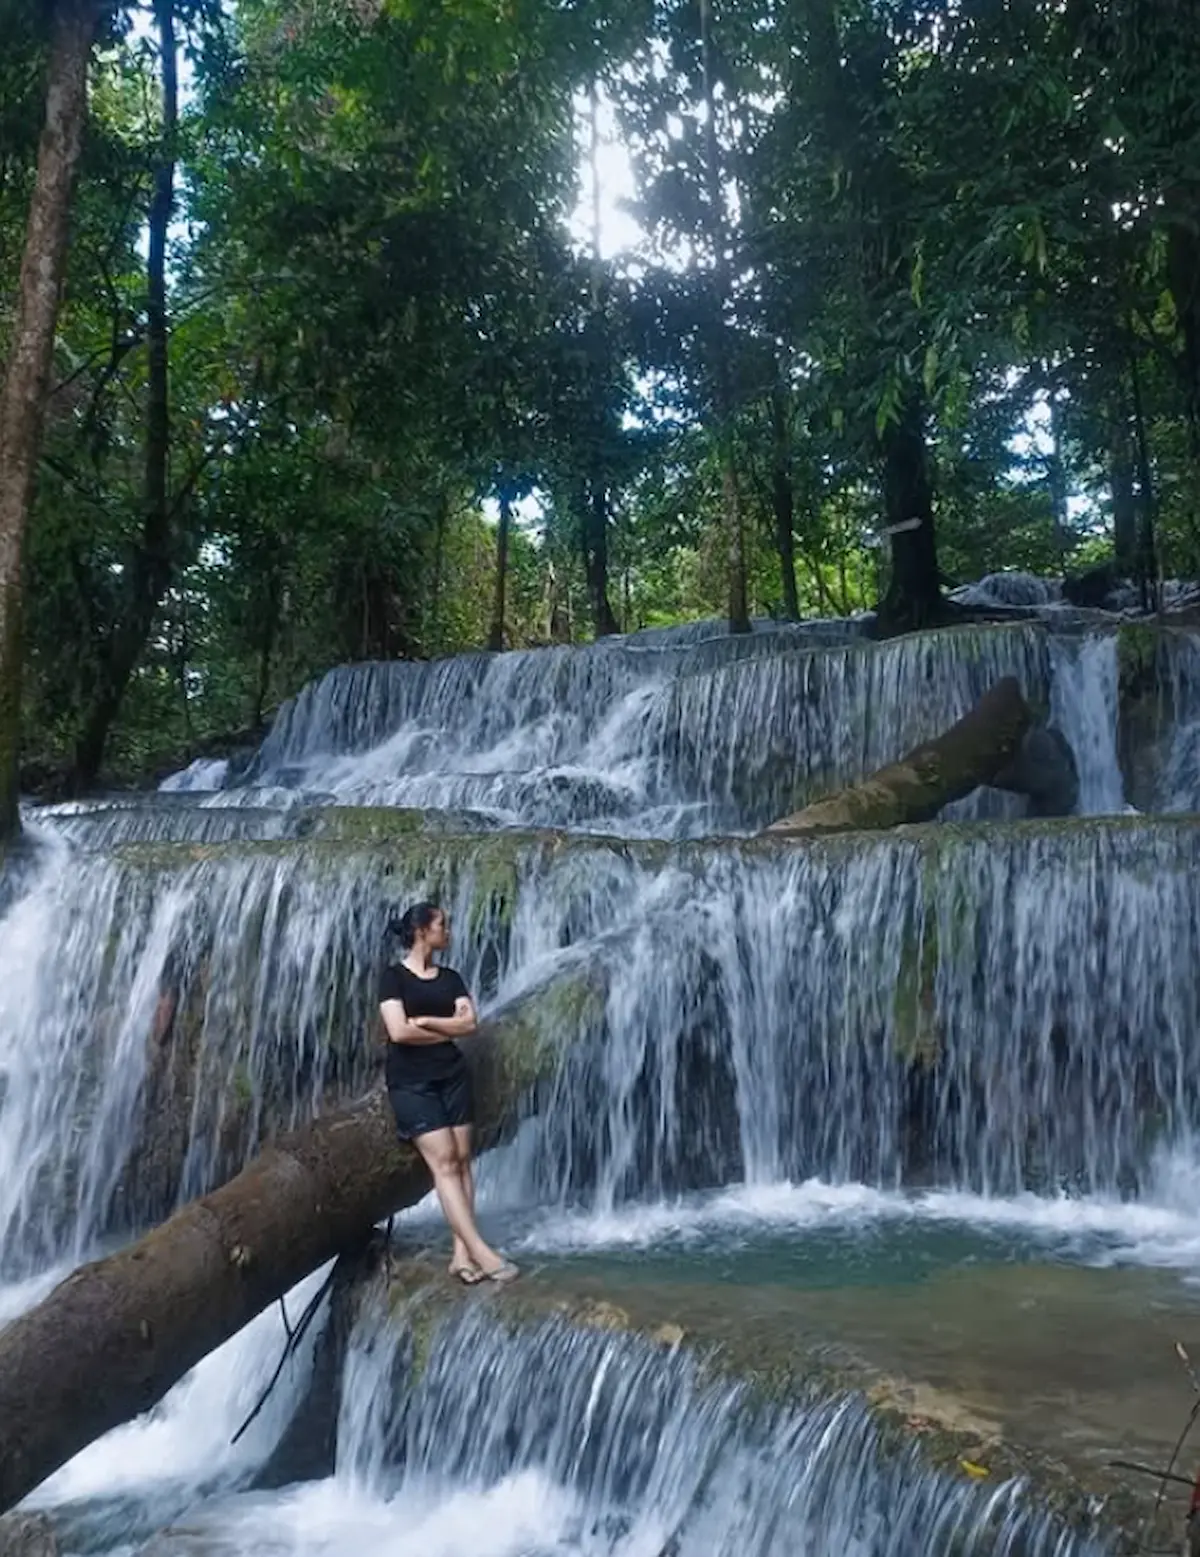
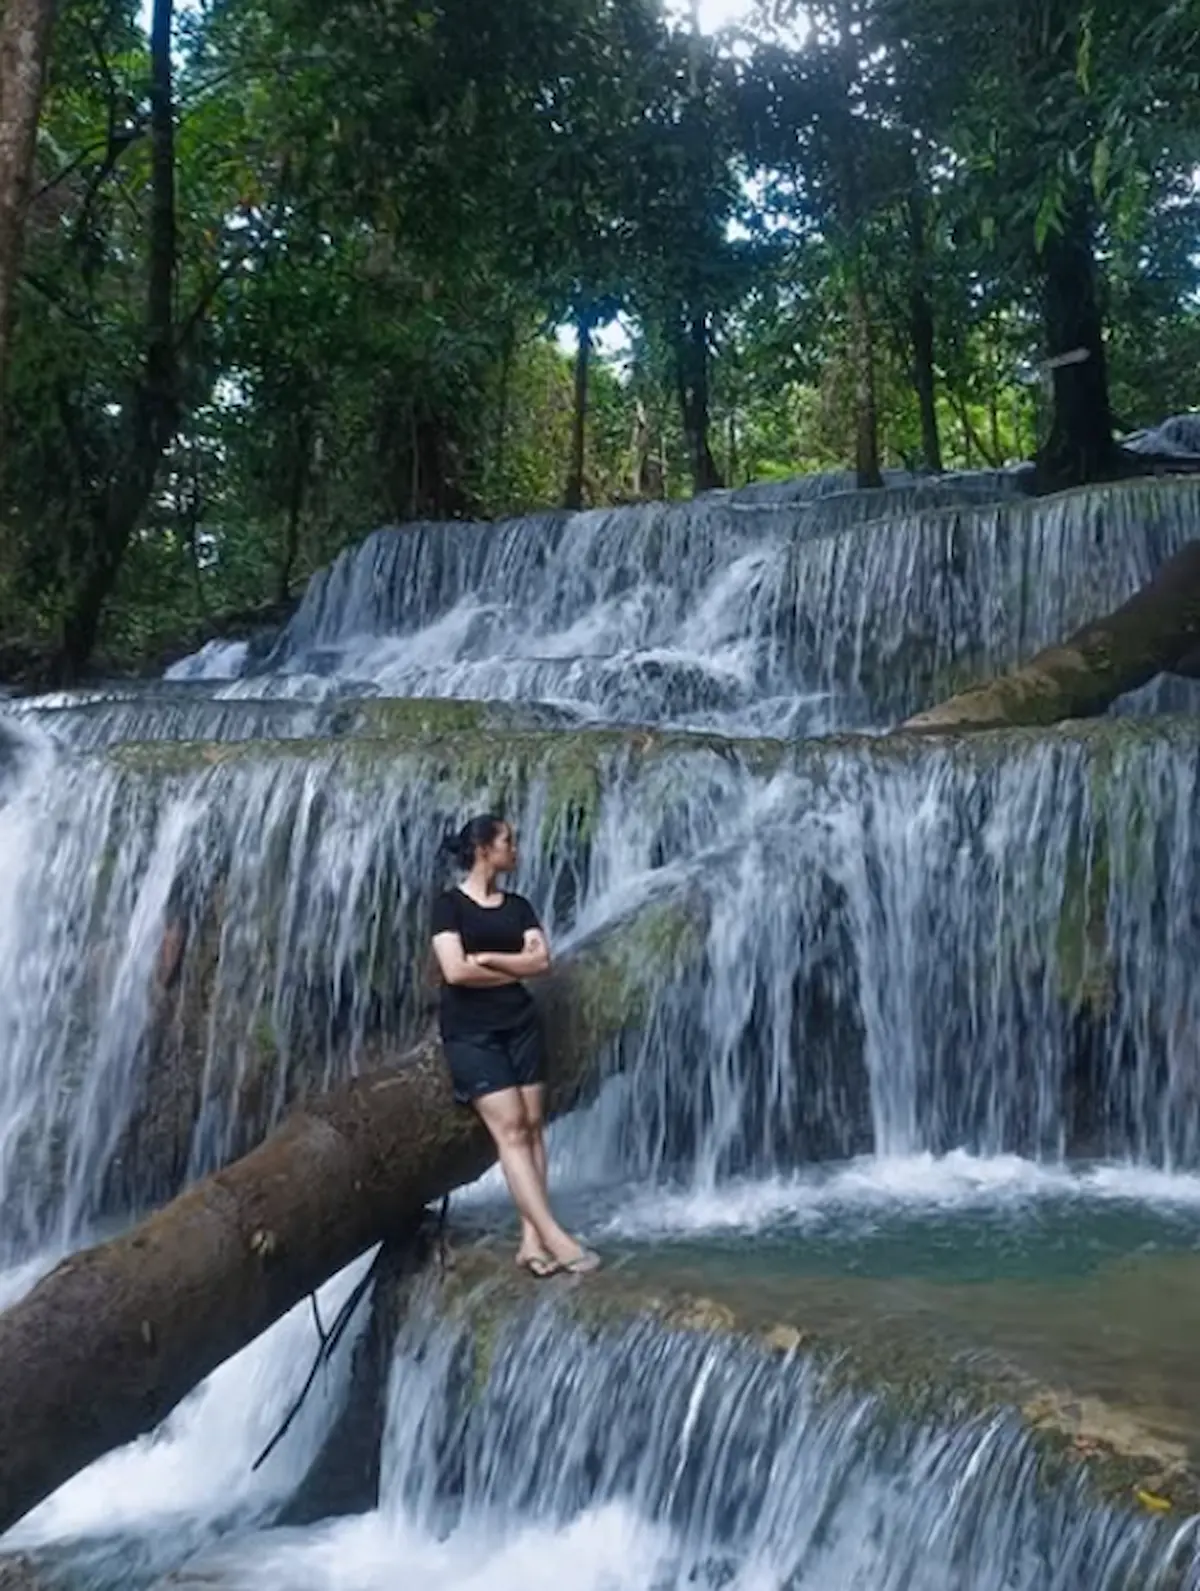
git add assets/guides, src/data/guides.js git commit -m "guides details an pictures" git push

diff --git a/src/data/guides.js b/src/data/guides.js
@@ -475,25 +475,61 @@ I recommend her with all my heart.`,
     // ────────────────────────────────────────────────────────────
     {
       id: "inggi-luwuk",
-      emoji: "🌸",
+      emoji: "🌿",
       name: { ro: "Inggi — Ghidul care într-o clipă de ploaie transformă natura în poezie", en: "Inggi — The guide who turns a moment of rain into a poem of nature" },
       tagline: { ro: "Blândă. Naturală. Curajoasă.", en: "Gentle. Natural. Brave." },
       cover: "/assets/guides/inggi-luwuk/inggicover.webp",
       gallery: [
-        "/assets/guides/inggi-luwuk/1.webp",
-        "/assets/guides/inggi-luwuk/2.webp",
-        "/assets/guides/inggi-luwuk/3.webp",
+        "/assets/guides/inggi-luwuk/inggi1.webp",
+        "/assets/guides/inggi-luwuk/inggi2.webp",
+        "/assets/guides/inggi-luwuk/inggi3.webp",
       ],
       socials: {
-        instagram: "",
-        facebook: "",
-        tiktok: "",
+        instagram: "https://www.instagram.com/nggisptri_/",
+        facebook: "https://www.facebook.com/nggisptri",
+        tiktok: "https://www.tiktok.com/@dendrophilesixteennine?_r=1&_t=ZN-91U5QKqB8AY",
         youtube: "",
         website: "",
         blog: "",
       },
       ro: {
-        intro: ``,
+        intro: `Eram deja de două zile pe insulă. Încă mă resimțeam după accident, așa că evitam să merg mult pe jos și mă limitam la locurile din apropierea satului unde eram cazată.
+
+Într-una dintre plimbările scurte, am ajuns într-o lagună superbă, cu apă albastră ca cerneala diluată. Femeile spălau rufe în liniște, copiii se bălăceau în râsete, iar câțiva bărbați umpleau bidoane cu apă dintr-un pârâiaș care se vărsa dincolo de lagună.
+Totul părea desprins dintr-o lume paralelă. Eu stăteam pe margine, prinsă în vraja acelui loc.
+        
+Nu puteam înțelege cum, în mijlocul acelei frumuseți copleșitoare, oamenii continuau gesturi atât de simple, atât de omenești. Și exact atunci… a apărut ea: Inggi.
+        
+Când s-a așezat lângă mine, am știut imediat că vom deveni prietene. Și nu m-am înșelat. Povestea noastră o spune chiar ea, mai jos, atât de frumos încât nu o voi repeta. Doar completez câteva detalii mici, dar esențiale.
+        
+Da, ploaia m-a împiedicat să ajung la debarcader în ziua aceea. Dar, privind în urmă, așa trebuia să fie. Ziua următoare, pe vaporul spre Luwuk, mă aștepta o întâlnire neașteptată.
+Iar, per total, zilele petrecute în Banggai au fost magice – o liniște colorată, o umanitate caldă, o sinceritate rară.
+        
+Ce nu a menționat Inggi este că pentru tot ce a făcut – drumul de peste 40 de kilometri cu mașina unchiului ei, mâncarea, timpul, atenția – nu a vrut să ia niciun ban.
+Ba mai mult: mi-a plătit și biletul de vapor spre Gorontalo.
+Am întrebat-o de ce, după toate gesturile ei deja copleșitoare. A ridicat ușor din umeri și mi-a spus, simplu:
+        
+„Ești prietena mea.”
+        
+Restul… sunt doar detalii.
+        
+Mă privea cu o lumină blândă, ca și cum în fața ei coborâse, pentru o clipă, luna în propria curte.
+        
+Am plecat privind-o pe ea și pe prietena ei, cu lacrimi dulci-amare în colțul ochilor.
+Și nu, nu cred că există poveste pe care s-o poți inventa.
+Realitatea bate imaginația – de fiecare dată. Și cu mult.
+        
+I-am promis că într-o zi mă voi întoarce.
+Și da… îmi doresc din tot sufletul ca promisiunea asta să devină realitate.
+
+P.S.
+Când ne-am oprit la o cafea, a probat rochița roșie pe care i-o dăruisem.
+A zâmbit, a făcut o piruetă și a spus cu o mândrie jucăușă:
+
+„Foarte sexy!”
+
+Toată lumea a izbucnit în râs.
+Iar în ochii ei se vedea o fericire care nu avea nevoie de traducere.`,
         qna: [
           { q: "1) Cine ești în câteva cuvinte?", a: "Sunt o fată de 24 de ani, caldă, veselă și apropiată de natură. Am crescut fiind mereu înconjurată de frumusețea naturii și asta mi-a adus fericire. Iubesc animalele și am grijă de ele ori de câte ori le întâlnesc. Uneori, în pauzele dintre aventuri, creez mici bijuterii sau accesorii – brățare, coliere, brelocuri. Sunt o persoană optimistă și iubesc viața, natura, animalele și oamenii din jurul meu. Dacă îți e greu să ți amintești de mine, încearcă doar să ți amintești numele: INGGI SAPUTRI." },
           { q: "2) Unde trăiești și ce iubești cel mai mult la locul tău?", a: "Sunt din Luwuk, regiunea Banggai, o zonă din Sulawesi Central, formată din trei părți: Banggai, Insulele Banggai și Banggai Laut. Este un loc care, deși puțin cunoscut, ascunde o frumusețe naturală rară: dealuri, păduri tropicale, plaje izolate, peșteri spectaculoase și unele dintre cele mai clare lacuri și cascade din Indonezia. În Banggai, cascada Sempe impresionează prin jeturile sale largi, care curg în trepte de pe stânci acoperite cu mușchi. Piala cucerește prin culoarea turcoaz și liniștea pădurii din jur, iar Laumarang ascunde o peșteră misterioasă în spatele căderii de apă. Insulele Banggai găzduiesc lacul Paisupok, cu ape cristaline și reflexii ireal de frumoase, plaja Poganda – cu nisip alb și leagăne între palmieri – și peștera Babanang, unde se află o piscină naturală de un albastru hipnotizant. În Banggai Laut, natura devine și mai spectaculoasă: Tanjung Bandul are un arc natural sculptat de vânt și valuri, locul de snorkeling Bontolan te poartă într-un recif viu și colorat, iar lacul cu meduze Paisu Batongan este un paradis rar, unde poți înota printre creaturi delicate, fără teamă. Toate aceste locuri sunt dovada că Banggai este o comoară naturală ce merită descoperită pas cu pas." },
@@ -512,7 +548,45 @@ I recommend her with all my heart.`,
         story: [],
       },
       en: {
-        intro: ``,
+        intro: `I had already been on the island for two days. I was still recovering from the accident, so I avoided walking too much and stayed close to the village where I was staying.
+
+During one of my short walks, I reached a breathtaking lagoon, with water blue like diluted ink. Women were washing clothes, children were splashing and laughing, and a few men were filling containers with water from a small stream flowing beyond the lagoon.
+Everything felt unreal, as if borrowed from another world. I sat there, caught in its quiet spell.
+        
+I couldn’t understand how, right in the middle of such overwhelming beauty, people continued their simple, everyday rituals. And that’s when… she appeared: Inggi.
+        
+When she sat down next to me, I knew instantly that we would become friends. And I wasn’t wrong. She tells our story below, beautifully, so I won’t repeat it here. I’ll just add a few small but essential details.
+        
+Yes, the rain kept me from reaching the pier that day. But looking back, that’s exactly how it was meant to happen.
+The next morning, on the boat to Luwuk, an unexpected encounter was waiting for me.
+And in the end, the days I spent in Banggai were magical – warm-hearted, sincere, unforgettable.
+        
+What Inggi didn’t mention is that for everything she did – the 40-kilometer drive with her uncle’s car, the food, the time, the care – she refused to take any money.
+And even more: she paid for my ferry ticket to Gorontalo.
+        
+When I asked her why – after everything she had already done – she simply shrugged and said:
+        
+“You are my friend.”
+        
+Everything else… is just detail.
+        
+She looked at me with a gentle light, as if the moon itself had quietly descended into her backyard for a moment.
+        
+I left while looking at her and her friend, their eyes glistening with sweet, bittersweet tears.
+And no, I don’t believe a story like this can be invented.
+Reality always outshines imagination. By far.
+        
+I promised her that one day I would return.
+And yes… I truly hope that day will come.
+
+P.S.
+When we stopped for a coffee, she tried on the red dress I had given her.
+She smiled, spun around playfully, and said:
+
+“Very sexy!”
+
+Everyone burst into laughter.
+And in her eyes, happiness shone in a way that needed no translation.`,
         qna: [
           { q: "1) Who are you in a few words?", a: "I'm a 24-year-old girl who is warm, cheerful, and close to nature. I grew up surrounded by nature's beauty, and that's where I always found my happiness. I love and care for animals whenever I meet them. In between my adventures, I sometimes express my creative side by making small things like bracelets, necklaces, keychains, and bag hangers. I'm an optimistic person who loves life, nature, animals, and the people around me. If you have a bit of trouble remembering me, just remember my name: INGGI SAPUTRI." },
           { q: "2) Where do you live and what do you love most about your place?", a: "I’m from Luwuk, Banggai Regency in Central Sulawesi – a region divided into Banggai, the Banggai Islands, and Banggai Laut. Though lesser-known, it’s filled with rare natural beauty: hills, tropical forests, remote beaches, caves, and some of the clearest lakes and waterfalls in Indonesia. In Banggai, Sempe Waterfall impresses with wide, terraced flows over mossy cliffs. Piala is known for its turquoise pools, and Laumarang hides a cave behind its majestic cascade. The Banggai Islands are home to Paisupok Lake, crystal-clear and dreamlike; Poganda Beach, with white sand and ocean swings; and Babanang Cave, with an electric-blue natural pool beneath ancient rock. In Banggai Laut, nature becomes even more surreal: Tanjung Bandul features a giant rock arch carved by time, Bontolan offers vibrant coral reefs for snorkeling, and Paisu Batongan Jellyfish Lake lets you swim with gentle, stingless jellyfish in a magical setting. Banggai is truly a hidden gem, waiting to be explored." },
